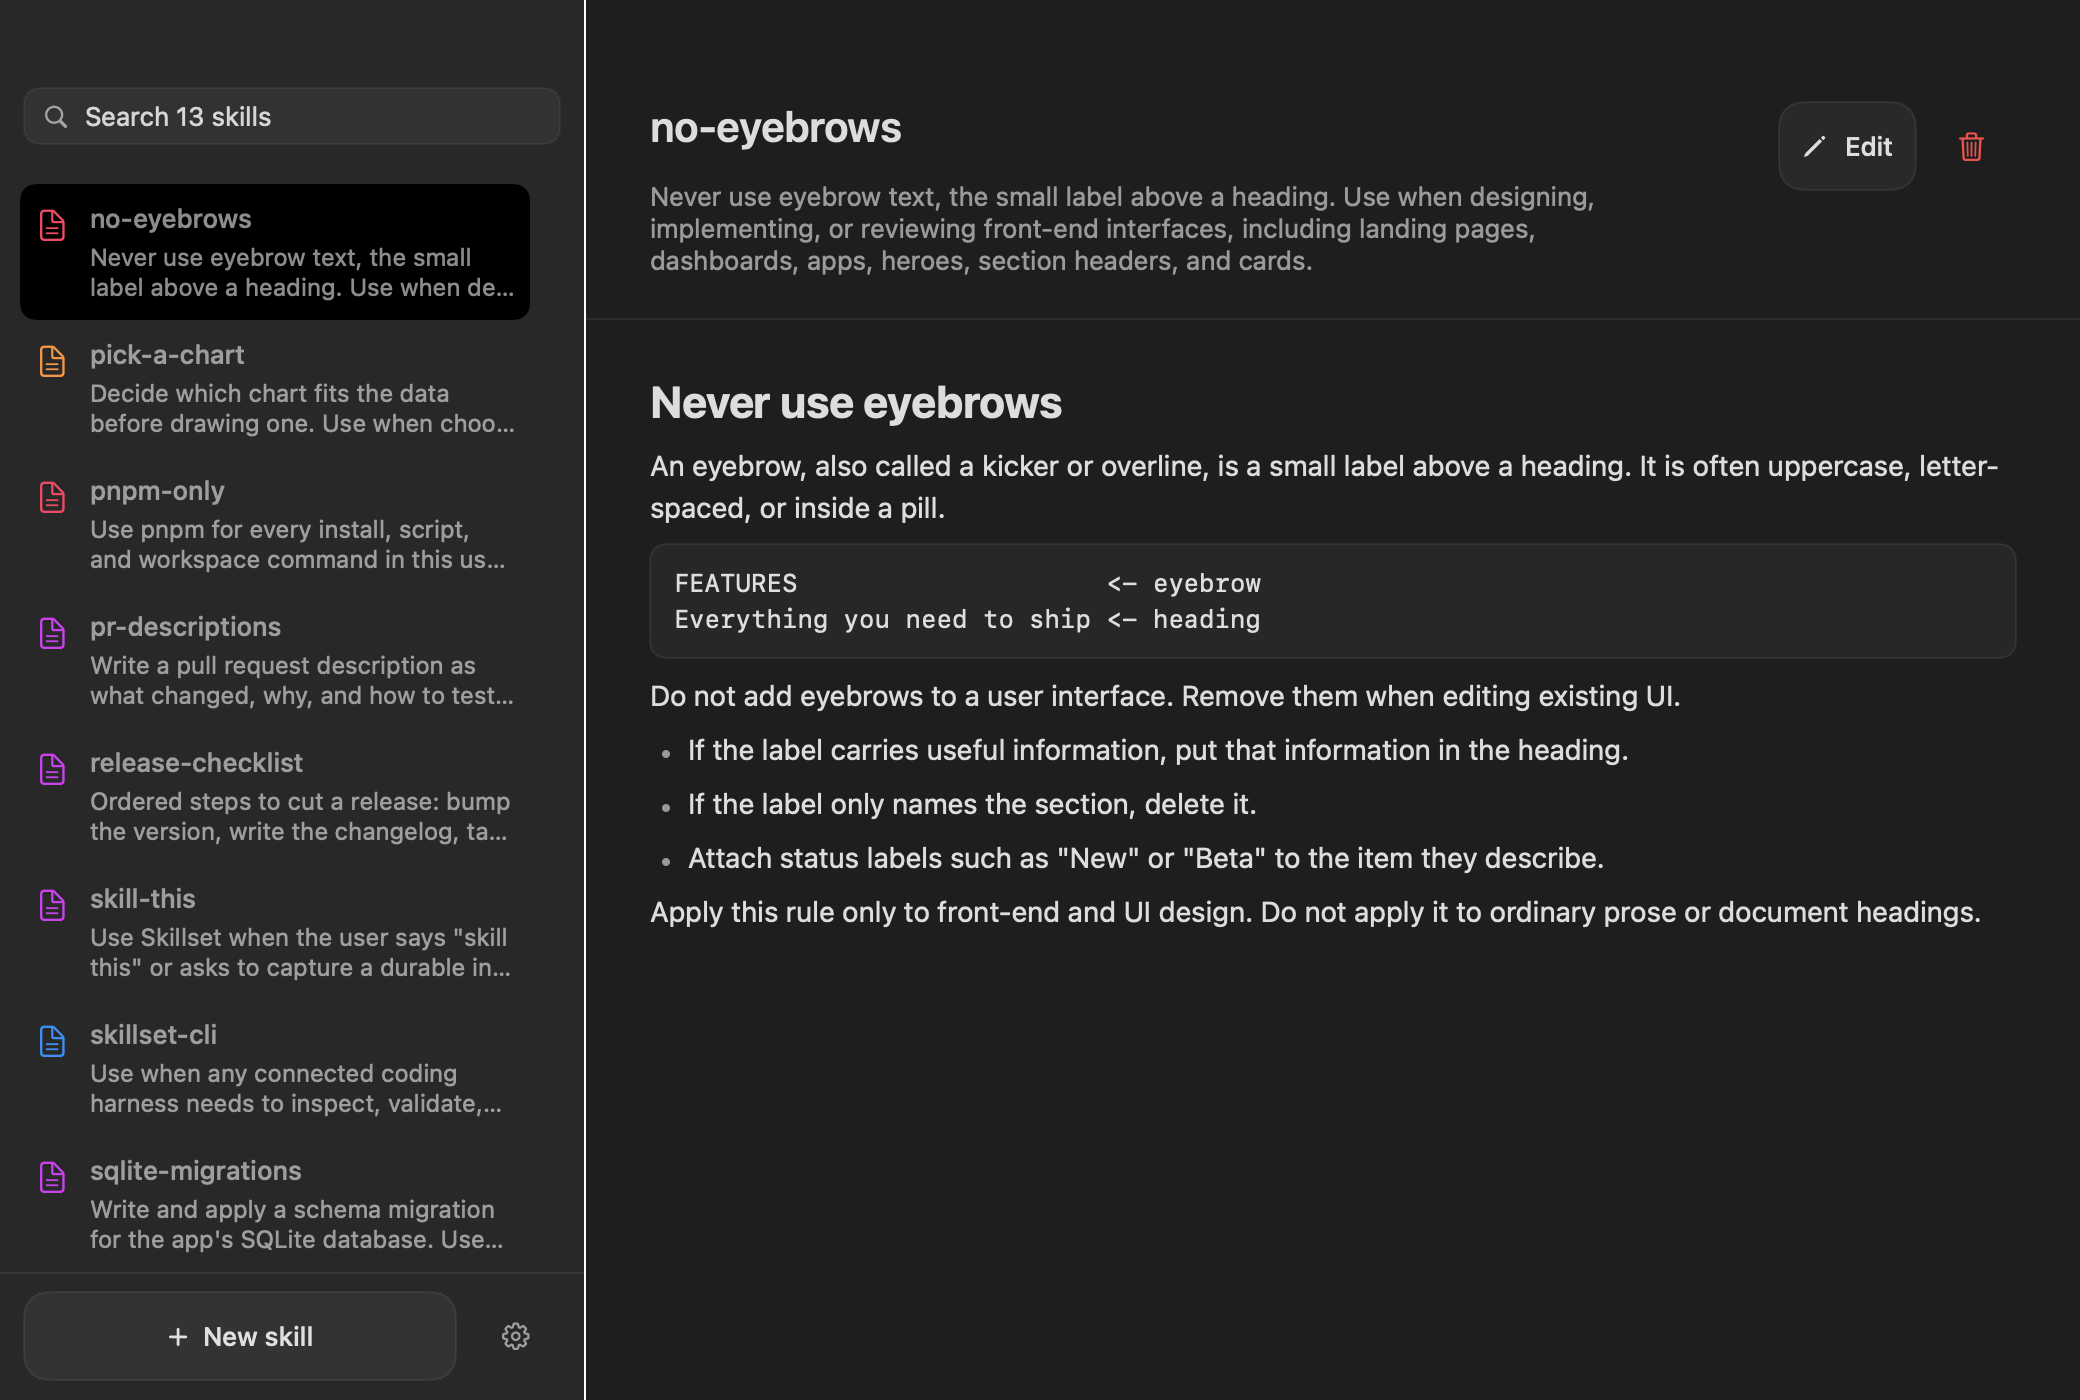
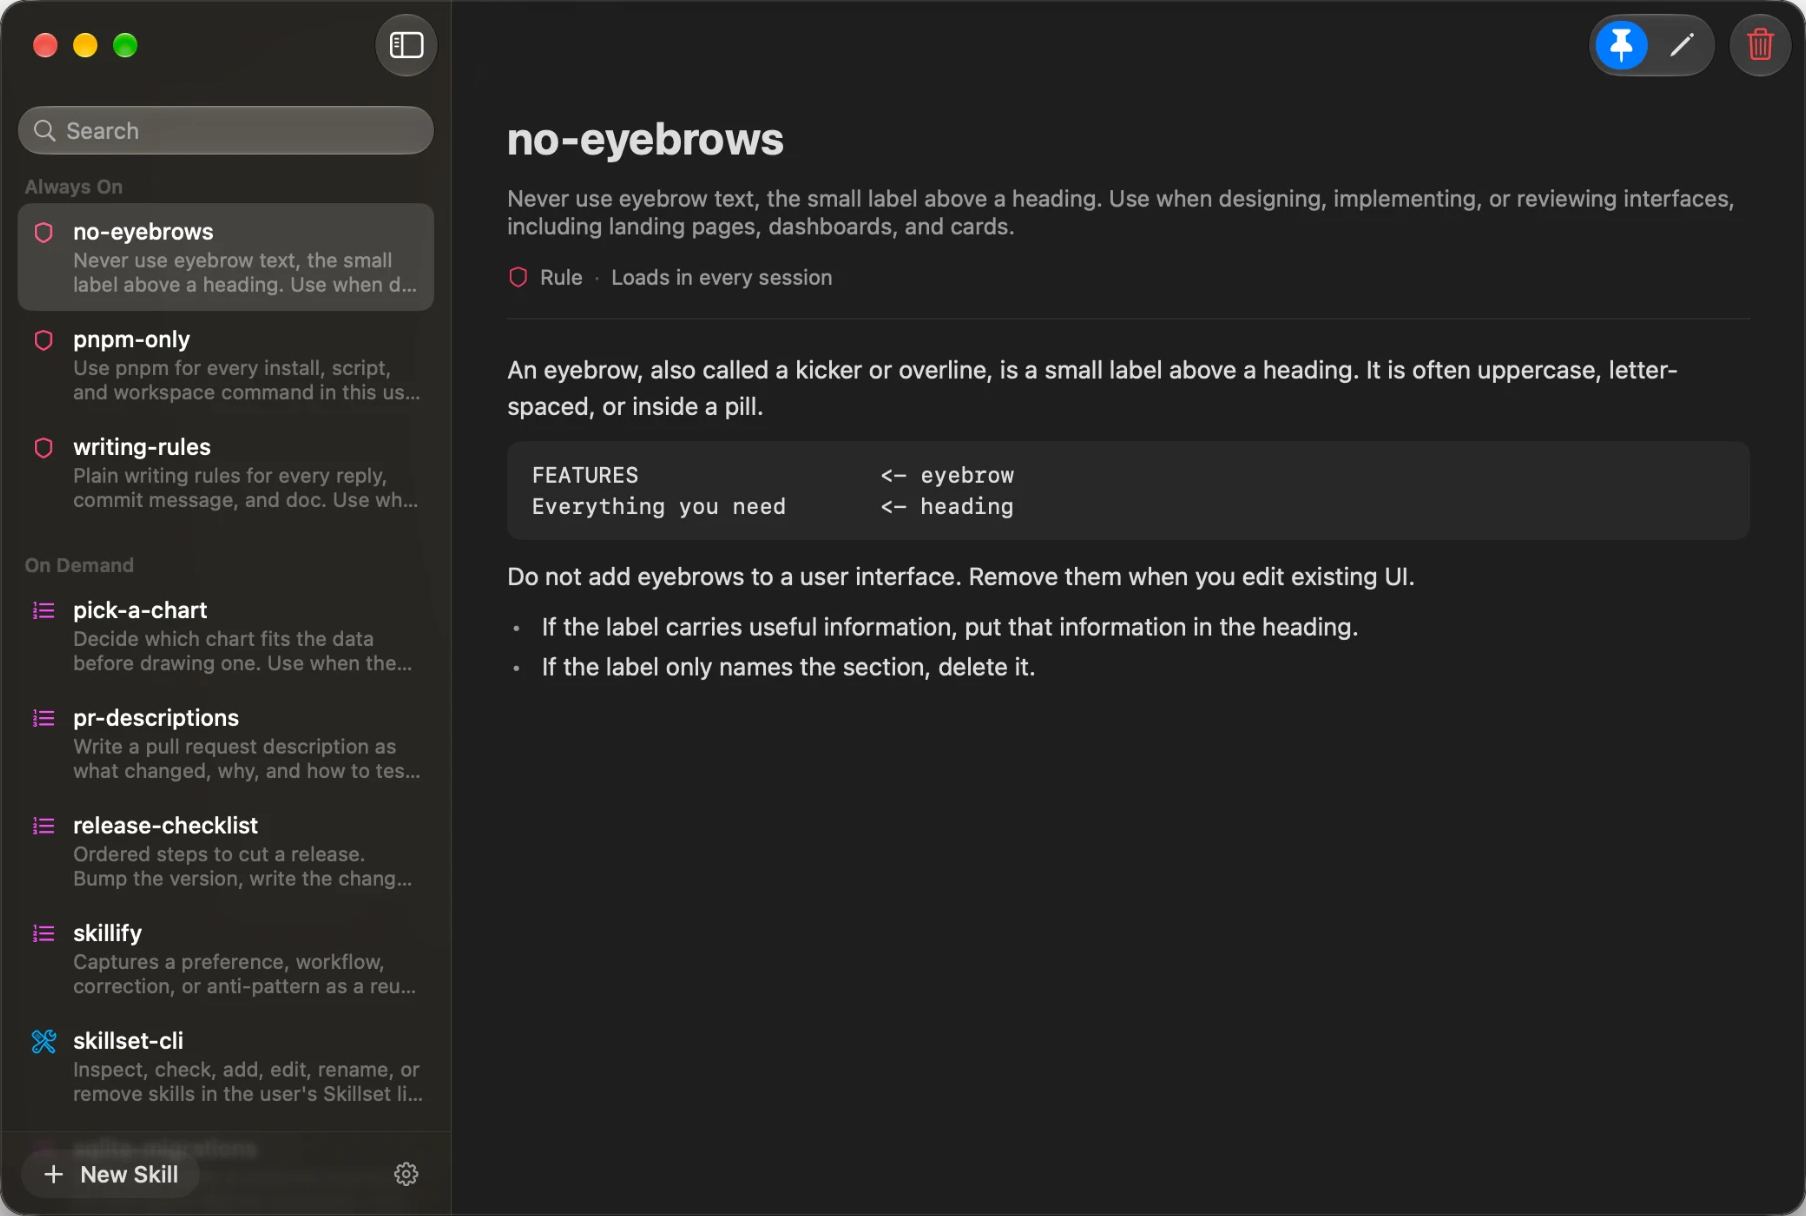
Show the current app on the site and keep the URL free of fragments
The screenshot is the Liquid Glass window on a demo store, cropped to
the window with its own corners. Nav links scroll without writing a
#fragment, so the address bar stays skillset.daniticau.com.

diff --git a/site/index.html b/site/index.html
@@ -39,8 +39,8 @@
       href="https://fonts.googleapis.com/css2?family=Geist:wght@400;500;600&family=Geist+Mono:wght@400;500&display=swap"
       rel="stylesheet"
     />
-    <link rel="stylesheet" href="./styles.css?v=8" />
-    <script src="./script.js?v=8" defer></script>
+    <link rel="stylesheet" href="./styles.css?v=9" />
+    <script src="./script.js?v=9" defer></script>
   </head>
   <body>
     <header class="site-header">
@@ -353,9 +353,9 @@ Short words. Active voice. One idea per sentence. Cut every word you can.
         </div>
         <figure class="shot">
           <img
-            src="./assets/skillset-app.png"
-            width="2080"
-            height="1400"
+            src="./assets/skillset-app.png?v=2"
+            width="1806"
+            height="1216"
             loading="lazy"
             decoding="async"
             alt="The Skillset Mac app. A sidebar lists eleven skills in two groups, Always On and On Demand. The detail pane shows the no-eyebrows rule."

diff --git a/site/script.js b/site/script.js
@@ -22,3 +22,23 @@ if (header) {
   update();
   window.addEventListener("scroll", update, { passive: true });
 }
+
+// In-page links scroll without writing a #fragment into the address bar, so
+// the URL stays skillset.daniticau.com. The hrefs still work without script.
+for (const link of document.querySelectorAll('a[href^="#"]')) {
+  link.addEventListener("click", (event) => {
+    const id = link.getAttribute("href").slice(1);
+    const target = id === "top" ? document.body : document.getElementById(id);
+    if (!target) return;
+    event.preventDefault();
+    if (id === "top") window.scrollTo({ top: 0 });
+    else target.scrollIntoView();
+  });
+}
+
+// A shared link with a fragment still lands on its section, then drops the fragment.
+if (location.hash) {
+  const target = document.getElementById(decodeURIComponent(location.hash.slice(1)));
+  history.replaceState(null, "", location.pathname + location.search);
+  target?.scrollIntoView({ behavior: "instant" });
+}

diff --git a/site/styles.css b/site/styles.css
@@ -722,18 +722,13 @@ tbody th code {
 
 /* ---------- app shot ---------- */
 
-.shot {
-  border: 1px solid var(--line-strong);
-  border-radius: var(--radius);
-  background: var(--surface);
-  box-shadow: 0 0 0 1px rgba(0, 0, 0, 0.4), 0 24px 64px rgba(0, 0, 0, 0.5);
-  overflow: hidden;
-}
-
+/* The screenshot is the window itself, with its own rounded corners and
+   edge. The shadow follows its transparent corners. */
 .shot img {
   display: block;
   width: 100%;
   height: auto;
+  filter: drop-shadow(0 24px 48px rgba(0, 0, 0, 0.55));
 }
 
 /* ---------- commands ---------- */
